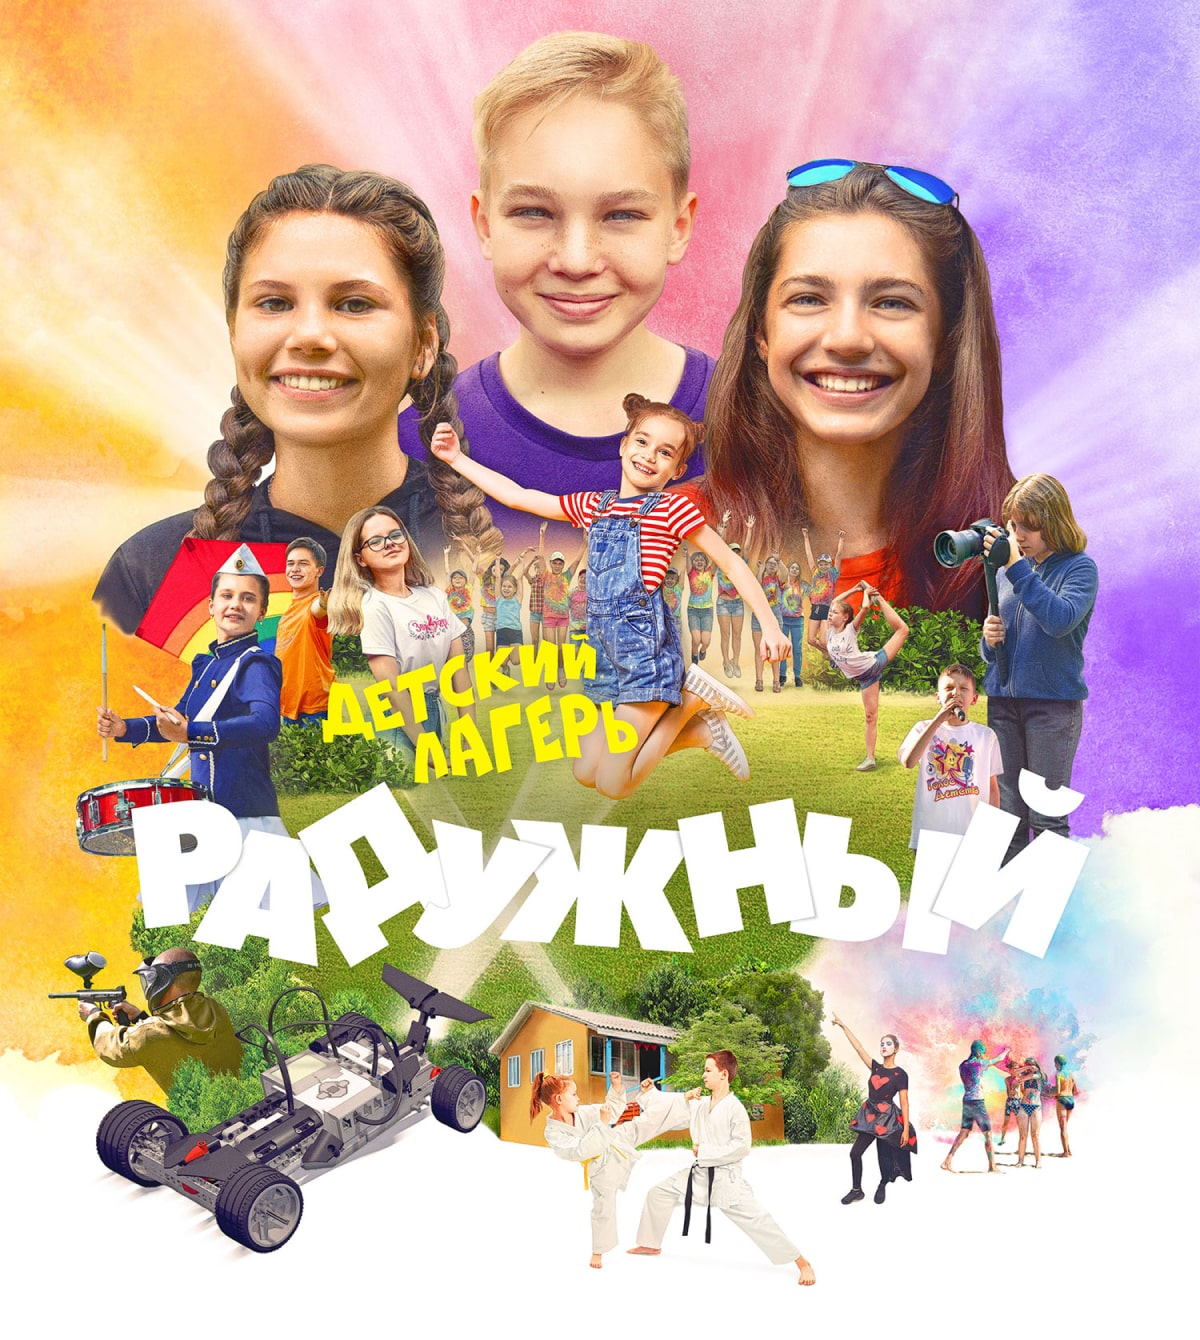
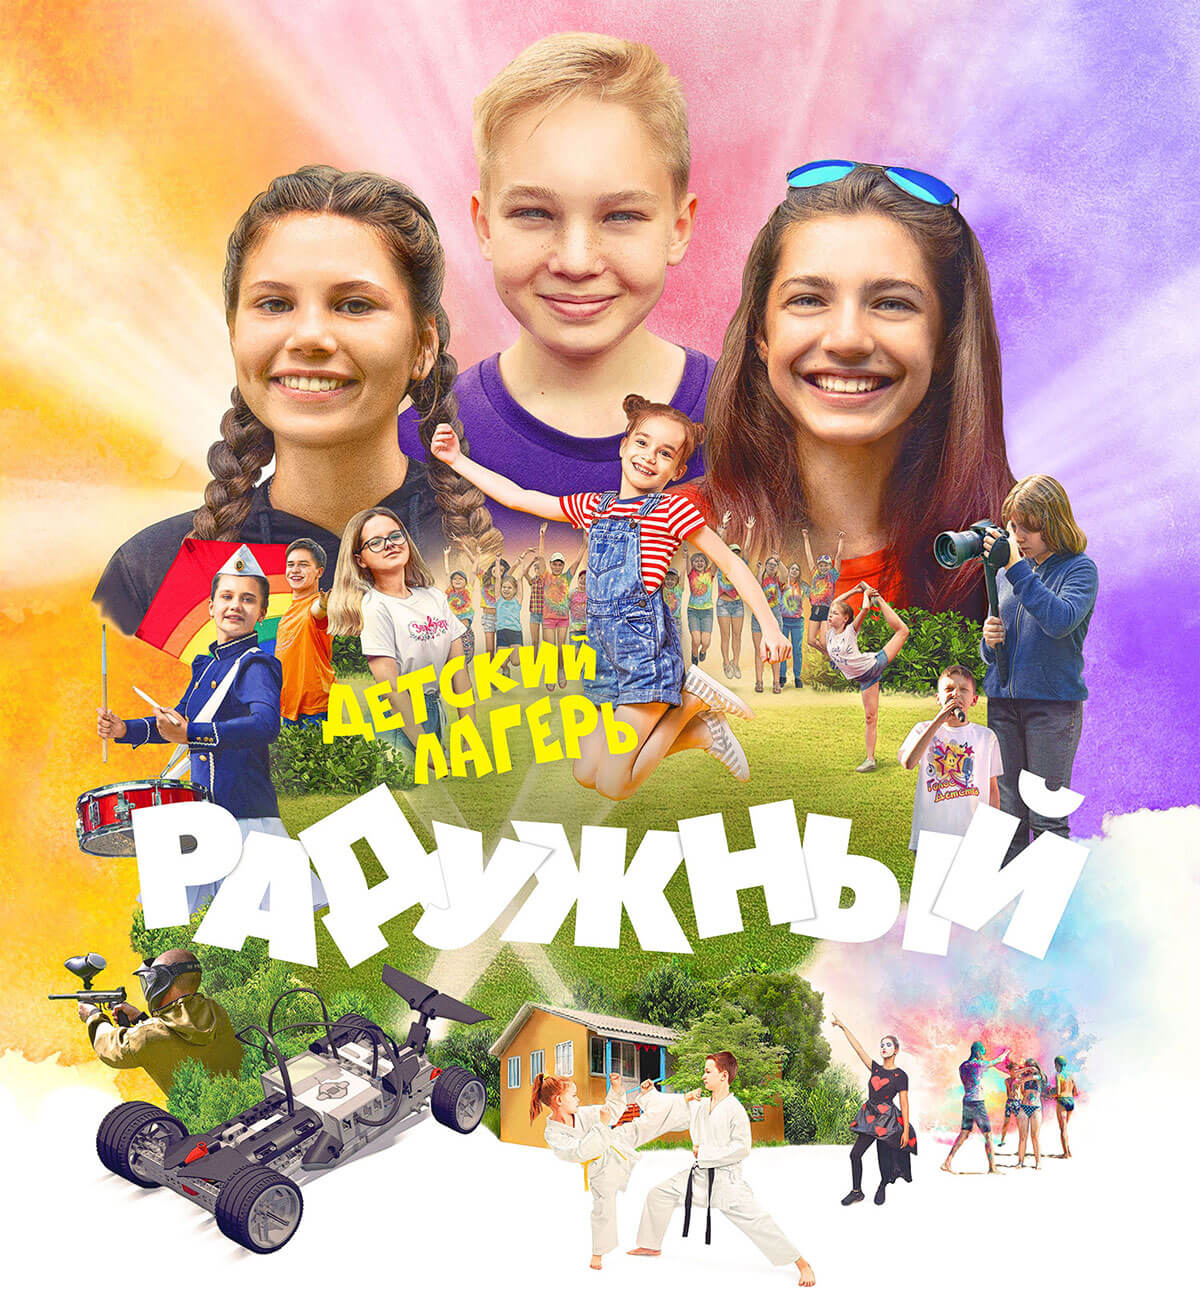
Поставил пережатые картинки в лучшем качестве.

diff --git a/css/style.css b/css/style.css
@@ -1346,6 +1346,15 @@ img
     max-width: none;
 }
 
+/* Retina backgrounds */
+@media screen and (-webkit-min-device-pixel-ratio: 2)
+{
+    .lego
+    {
+        background: url('../images/lego-2x.png') no-repeat;
+    }
+}
+
 @media screen and (min-width: 1281px)
 {
     .main_info_section
@@ -1759,7 +1768,7 @@ img
         height: 512px;
         bottom: -115px;
         right: -239px;
-        background: url(../images/lego-wide.png) no-repeat;
+        background: url(../images/wide/lego.png) no-repeat;
     }
 
     .block_with_background.robotics
@@ -2170,6 +2179,14 @@ img
     {
         font-size: 18px;
         line-height: 25px;
+    }
+}
+
+@media screen and (min-width: 1281px) and (-webkit-min-device-pixel-ratio: 2)
+{
+    .lego
+    {
+        background: url(../images/wide/lego-2x.png) no-repeat;
     }
 }
 
